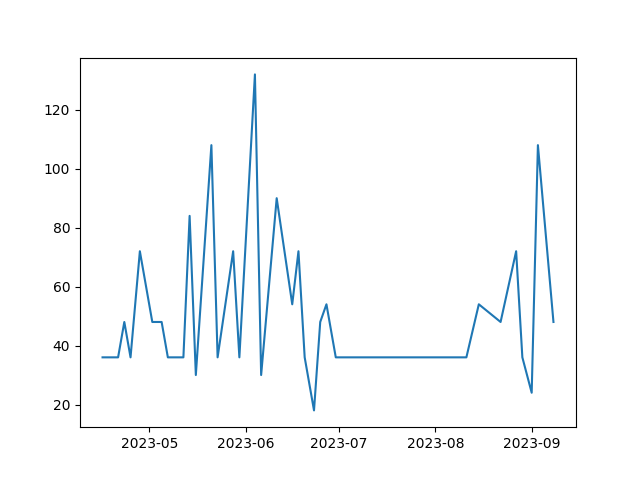
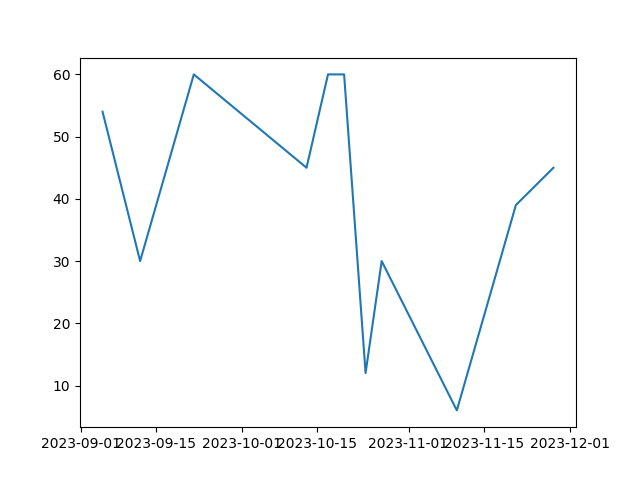
Indoor season starts

diff --git a/plot.py b/plot.py
@@ -6,7 +6,7 @@ from datetime import date
 
 
 YEAR = date.today().strftime("%y")
-score_data = pd.read_csv(f"static/arrow_scores_outdoors_{YEAR}.csv", header=0)
+score_data = pd.read_csv(f"static/arrow_scores_indoors_{YEAR}.csv", header=0)
 # score_data = pd.read_csv(f"static/arrow_scores_indoors_{YEAR}.csv", header=0)
 
 
